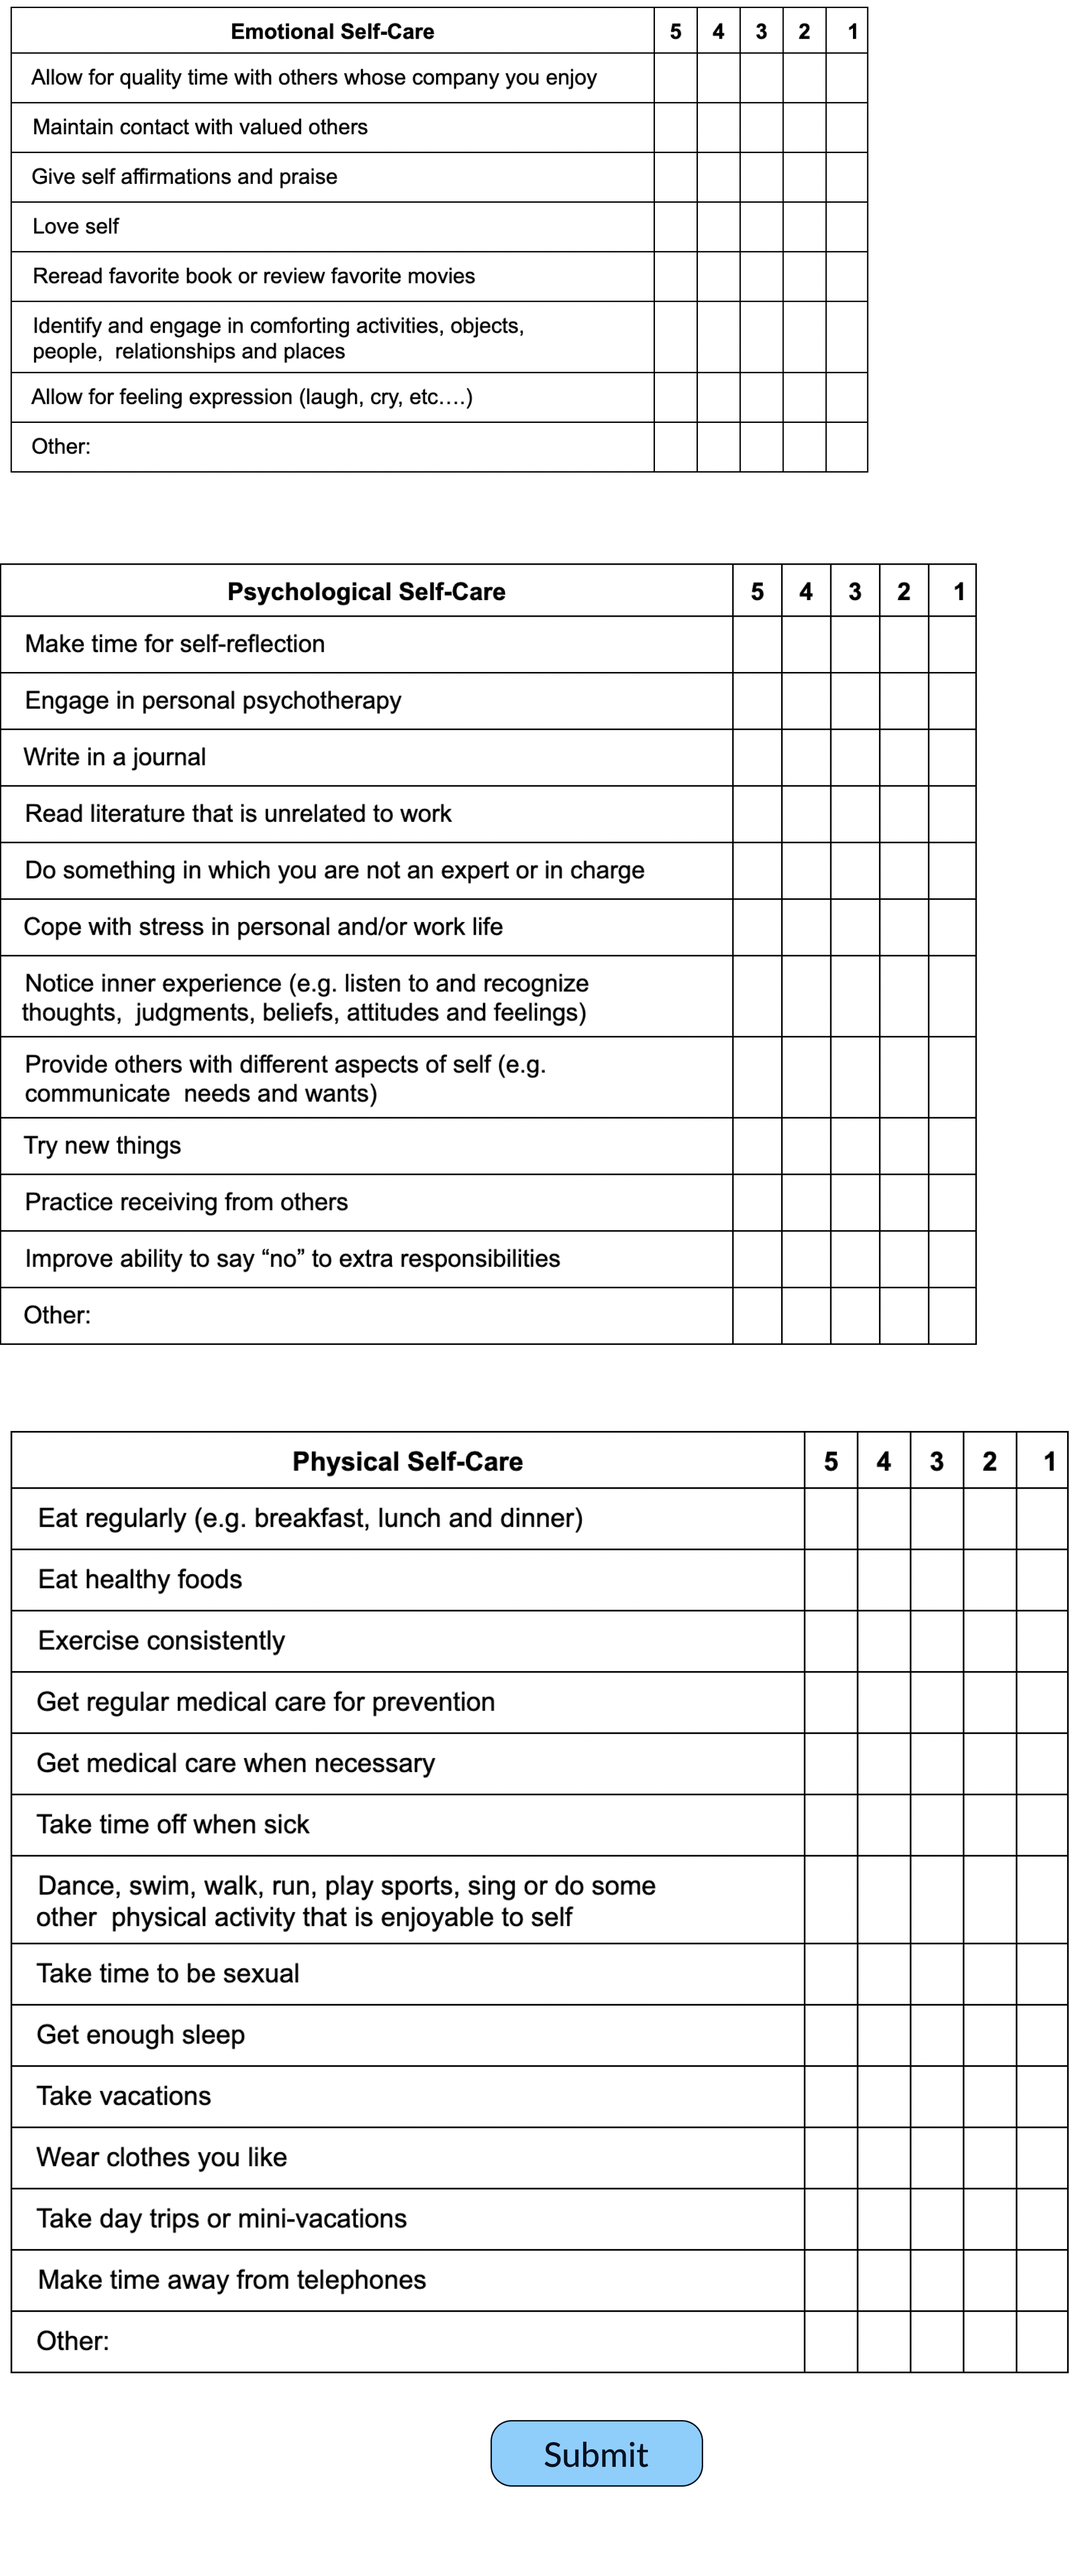
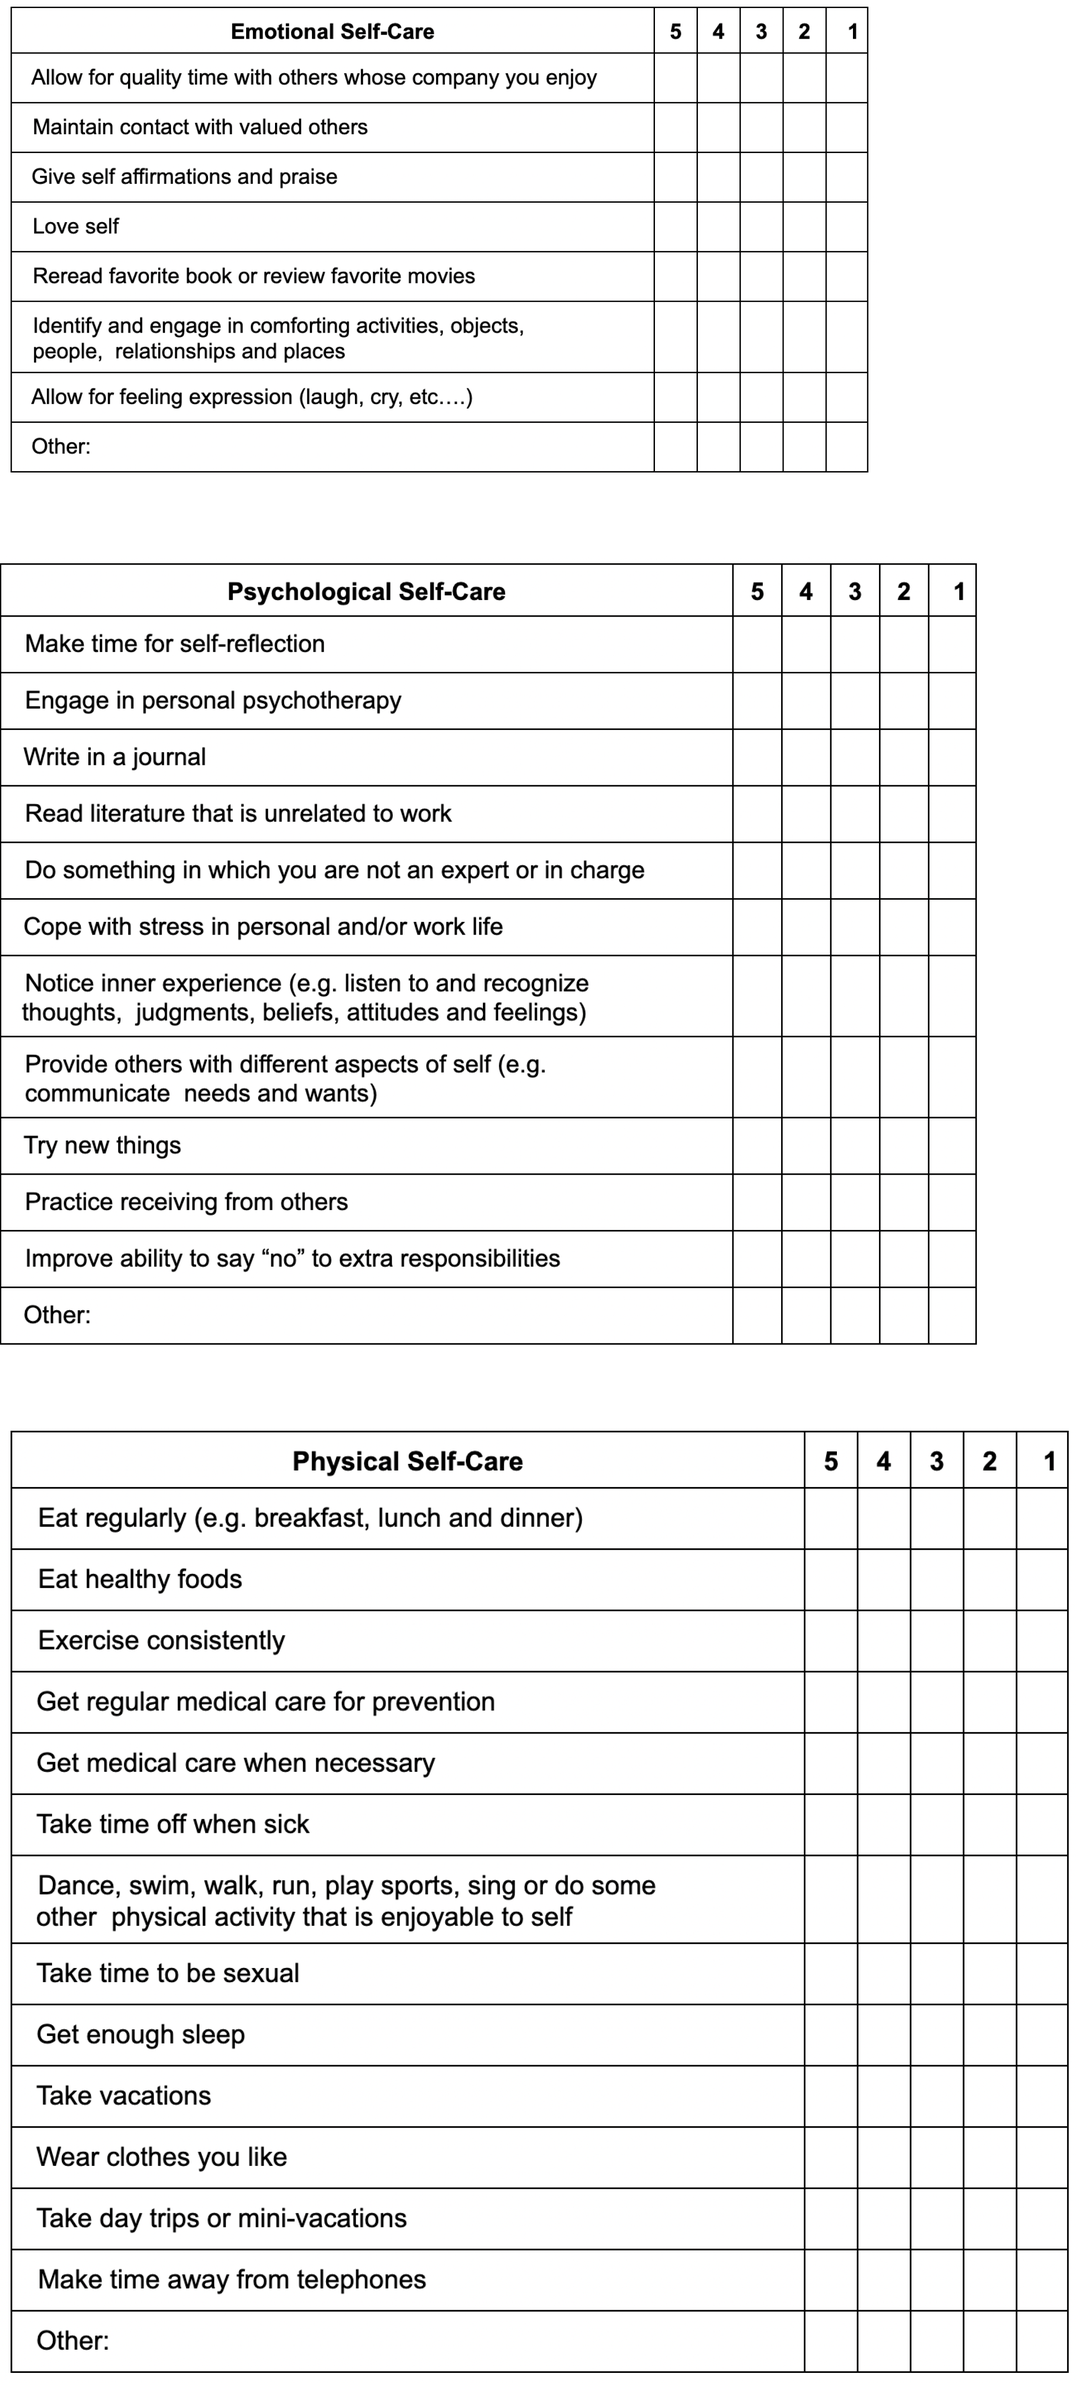
kassia's 2nd revision
Title, spacing of scale updated

diff --git a/assessment.html b/assessment.html
@@ -93,12 +93,18 @@
                 </div>
             </div>
             
-            <div id="rightSide" class="hero">
+            <div id="rightSide" class="assessmentSection">
+              <div class="assessment">
+                <h1><i>Wellness Assessment</i></h1>
                 <img src="/images/Assessment.png" class="assessmentImage">
-                <p>Wellness Spot encourages boot camp students to focus on their overall well being by promoting a culture of connection and self-care.</p>
-                <p>“Wellness Spot helped  connect me to others and find ways to balance all the different stressors I was facing” - Jacob Sprang</p>
+                <button type="submit" class="btn btn-default">Submit</button>
+              </div>
+              <div class="assessmentScale">
+                <img src="/images/LikertScale.png" height="10% width 15%">
+              </div>
             </div>
-        </section>        
+        </section> 
+
         <div class="email-container">
             <p>Sign-up for weekly wellness tips</p>
             <form class="form-inline" action="/action_page.php">
@@ -109,7 +115,7 @@
             <button type="submit" class="btn btn-default">Submit</button>
             </form>
         </div>
-        
+
         <footer>
             <div class="footer">
                 <a href="https://idp.bootcampspot.com/ui/?requestId=c01595e8-bbdf-49b1-8678-02422db6b34b"><img src="/images/Wellness_Spot_Footer_Arrow - Left.png"></a>

diff --git a/index.css b/index.css
@@ -157,6 +157,32 @@ p {
     text-align: center;
     color: black;
 }
+/* Assessment Section */
+
+.assessmentSection{
+  display: grid;
+  grid-template-columns: 3fr 1fr;
+}
+.assessment h1{
+  margin-right:17%;
+  padding-bottom: 2%;
+}
+.assessment{
+  display: flex;
+  flex-direction: column;
+  justify-content: center;
+  align-items: center;
+  padding: 20px;  
+}
+.assessmentImage {
+  width: 100%;
+  height: auto;
+  margin-bottom: 40px;
+}
+
+.assessmentScale{
+  margin-top: 50%;
+}
 
 /* Email Sign-up */
 .container {
